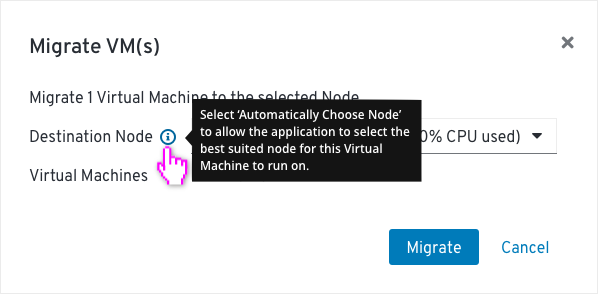
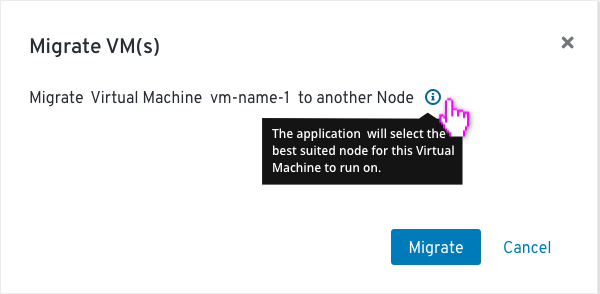
the user can't pick a destination node

diff --git a/web-console/knikubevirt/migrate-vm/migrate-vm.md b/web-console/knikubevirt/migrate-vm/migrate-vm.md
@@ -4,7 +4,7 @@ Clicking the action button next to any Virtual Machine in the List will present 
 
 ![Selecting a VM](img/1-0-list.png)
 
-A modal will be presented where the user can choose which Node the VM should be migrated to.
+Since the user can't pick a destination node (we just submit a request for migration and this starts a machinery which at some points picks a host), so we just keep the confirmation dialog simple and let the user know that this VM is migrated to another node.
 
 ![Modal migrate](img/1-2-modal-migrate.png)
 
@@ -12,17 +12,7 @@ A modal will be presented where the user can choose which Node the VM should be 
 
 When the destination Node has a much longer name than the size of the text box, there are 2 available options:
 
-* adding 3 dots at the end of the text
-
-![Modal view](img/1-2-modal-migrate-longname.png)
-
-* adding 3 dots at the middle of the text
-
-![Modal view](img/1-2-modal-migrate-longname.png)
-
-Clicking on the name will show a popover with the full destination Node name and some explanatory text.
-
-After the migration is kicked off, the status of the VM showing that the migration has started will be reflected in the list view.
+ After the migration is kicked off, the status of the VM showing that the migration has started will be reflected in the list view.
 
 On error or completion, the user will receive a notification and the status will be updated accordingly.
 For a process that is not instantaneous, the user will be notified via notification when it completes.
